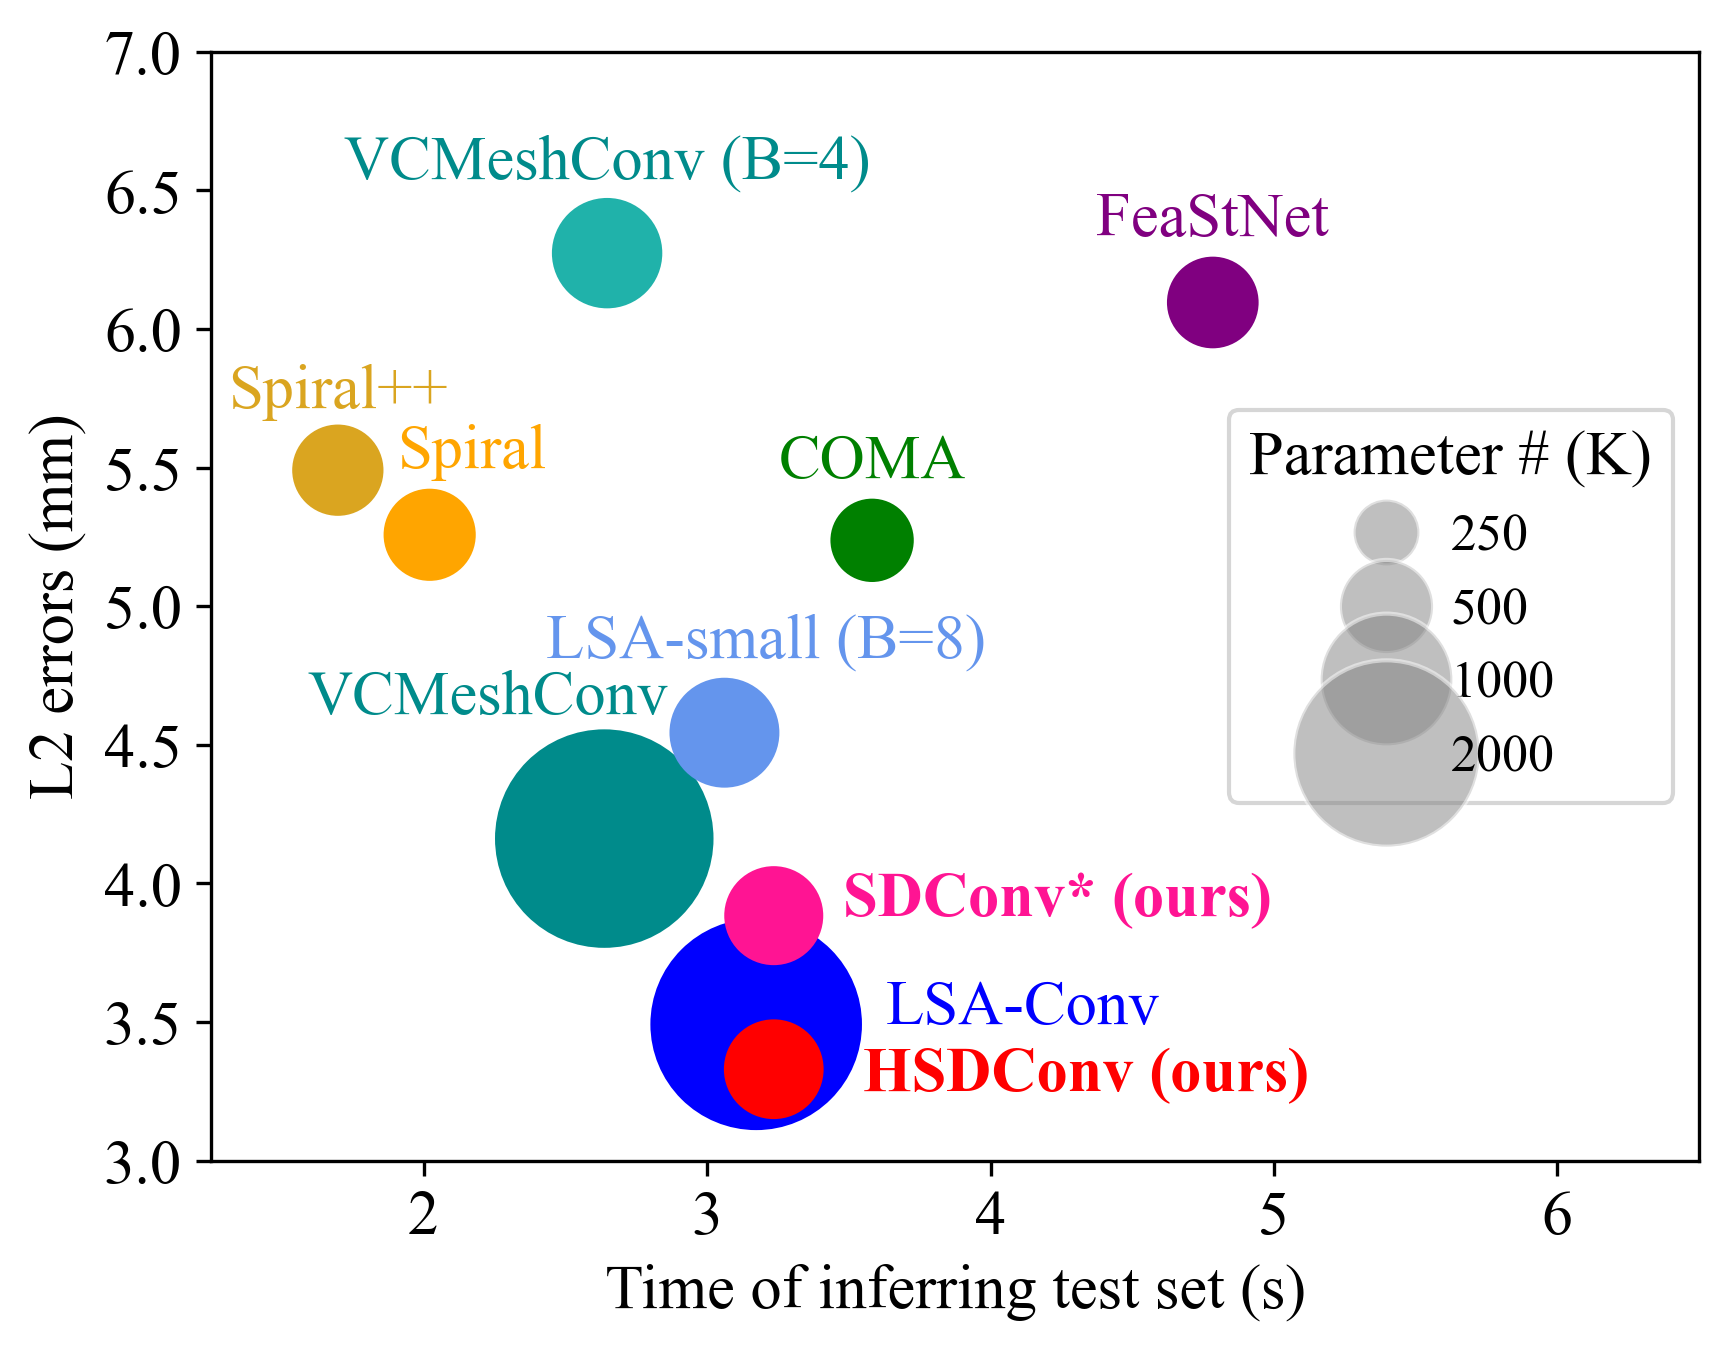
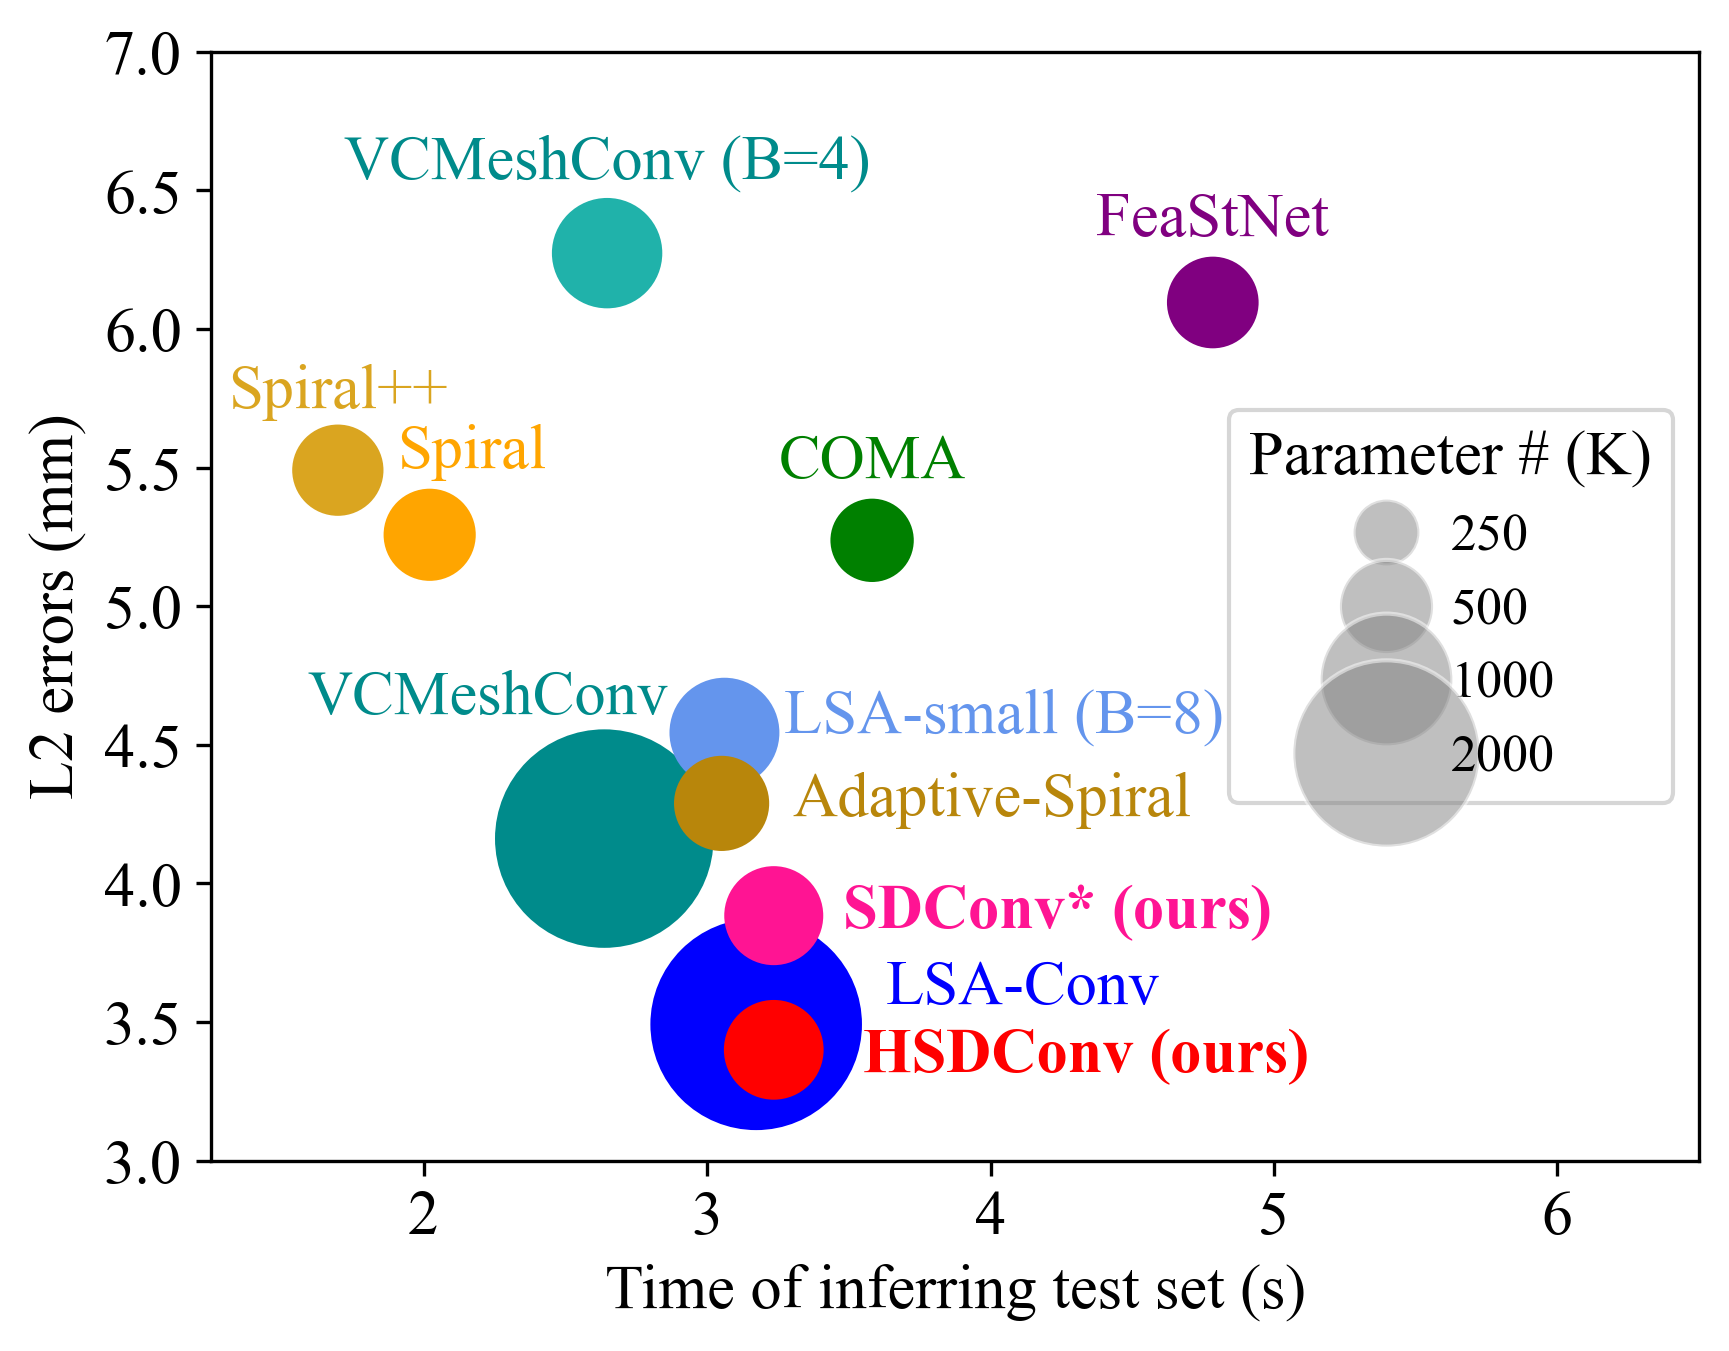
clean code

Changed region(s): [[0.3123, 0.4663, 0.7496, 0.6839], [0.406, 0.715, 0.7808, 0.8394], [0.6871, 0.4974, 0.7183, 0.5596]]

diff --git a/tools/plotresults.py b/tools/plotresults.py
@@ -1,6 +1,5 @@
 
 #%%
-import matplotlib
 import matplotlib.pyplot as plt 
 from matplotlib.lines import Line2D
 import numpy as np 
@@ -9,12 +8,14 @@ plt.rcParams["font.family"] = "Times New Roman"
 plt.rcParams["font.size"] = 15
 # font = {'family' : 'Times New Roman', 'size': 10}
 # matplotlib.rc('font', **font)
-x = [2.021, 3.582, 3.173, 3.235, 3.235, 4.784, 1.697, 2.637, 2.647, 3.061]
+x = [2.021, 3.582, 3.173, 3.235, 3.235, 4.784, 1.697, 2.637, 2.647, 3.061, 3.051]
 # x = [53, 61, 62, 64 ,90]
-y = [5.258, 5.238, 3.492, 3.884, 3.330, 6.096, 5.491, 4.162, 6.274, 4.544]
-s = [446, 361, 2478, 518, 526, 441, 437, 2646, 650, 644]
-n = ["Spiral", "COMA", "LSA-Conv", "SDConv* (ours)", "HSDConv (ours)", "FeaStNet", "Spiral++", "VCMeshConv", "VCMeshConv (B=4)", "LSA-small (B=8)"]
-colors = ['orange', 'green', 'blue', 'deeppink', 'red', 'purple', 'goldenrod', "darkcyan", "lightseagreen", "cornflowerblue"]
+y = [5.258, 5.238, 3.492, 3.884, 3.4, 6.096, 5.491, 4.162, 6.274, 4.544, 4.289]
+s = [446, 361, 2478, 518, 526, 441, 437, 2646, 650, 644, 477]
+n = ["Spiral", "COMA", "LSA-Conv", "SDConv* (ours)", "HSDConv (ours)", "FeaStNet",
+     "Spiral++", "VCMeshConv", "VCMeshConv (B=4)", "LSA-small (B=8)", "Adaptive-Spiral"]
+colors = ['orange', 'green', 'blue', 'deeppink', 'red', 'purple', 
+          'goldenrod', "darkcyan", "lightseagreen", "cornflowerblue", 'darkgoldenrod']
 scatter = plt.scatter(x, y, s=s, color=colors)
 # Setting x and y axes limits
 plt.xlim(1.25, 6.5)  # Set the start and end points for the x-axis
@@ -53,14 +54,14 @@ plt.annotate(n[2], # this is the text
                 (x[2],y[2]), # this is the point to label
                 color=colors[2],
                 textcoords="offset points", # how to position the text
-                xytext=(64,0), # distance from text to points (x,y)
+                xytext=(64,5), # distance from text to points (x,y)
                 ha='center') # horizontal alignment can be left, right or center
 plt.annotate(n[3], # this is the text
                 (x[3],y[3]), # this is the point to label
                 fontweight='bold',
                 color=colors[3],
                 textcoords="offset points", # how to position the text
-                xytext=(68,0), # distance from text to points (x,y)
+                xytext=(68,-3), # distance from text to points (x,y)
                 ha='center') # horizontal alignment can be left, right or center
 plt.annotate(n[4], # this is the text
                 (x[4],y[4]), # this is the point to label
@@ -97,13 +98,19 @@ plt.annotate(n[9], # this is the text
                 (x[9],y[9]), # this is the point to label
                 color=colors[9],
                 textcoords="offset points", # how to position the text
-                xytext=(10,18), # distance from text to points (x,y)
+                xytext=(67,0), # distance from text to points (x,y)
+                ha='center') # horizontal alignment can be left, right or center
+plt.annotate(n[10], # this is the text
+                (x[10],y[10]), # this is the point to label
+                color=colors[10],
+                textcoords="offset points", # how to position the text
+                xytext=(65,-3), # distance from text to points (x,y)
                 ha='center') # horizontal alignment can be left, right or center
 plt.xlabel("Time of inferring test set (s)")
 plt.ylabel("L2 errors (mm)")
 
-plt.savefig('../images/complexity1.png', dpi=300, bbox_inches='tight', transparent=False)
-plt.savefig('../images/complexity.pdf', format='pdf', bbox_inches='tight')
+plt.savefig('images/complexity1.png', dpi=300, bbox_inches='tight', transparent=False)
+plt.savefig('images/complexity.pdf', format='pdf', bbox_inches='tight')
 # plt.show()
 
 

diff --git a/tools/test_funcs_combined.py b/tools/test_funcs_combined.py
@@ -56,8 +56,8 @@ def test_autoencoder_dataloader(device, model, dataloader_test, shapedata, mm_co
                 # cv2.imwrite('meshes/'+str(i).zfill(3)+str(j).zfill(3)+'.png', color)
 
                 # pyrender.Viewer(scene, use_raymond_lighting=True)
-            x = (x * shapedata_std + shapedata_mean) * mm_constant
-            l2_loss+= torch.mean(torch.sqrt(torch.sum((x_recon - x)**2,dim=2)))*x.shape[0]/float(len(dataloader_test.dataset))
+            # x = (x * shapedata_std + shapedata_mean) * mm_constant
+            # l2_loss+= torch.mean(torch.sqrt(torch.sum((x_recon - x)**2,dim=2)))*x.shape[0]/float(len(dataloader_test.dataset))
         print("--- %s seconds ---" % (time.time() - start_time))
         predictions = predictions.cpu()
         # l1_loss = l1_loss.item()

diff --git a/autoencoder_dataset.py b/autoencoder_dataset.py
@@ -16,7 +16,7 @@ class autoencoder_dataset(Dataset):
         
         self.paths = np.load(os.path.join(root_dir, 'paths_'+points_dataset+'.npy'))
         
-        self.loadwhole = True
+        self.loadwhole = False
         self.verts_inits = []
         if self.loadwhole:
             for basename in tqdm(self.paths):
